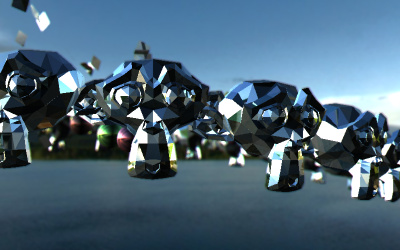
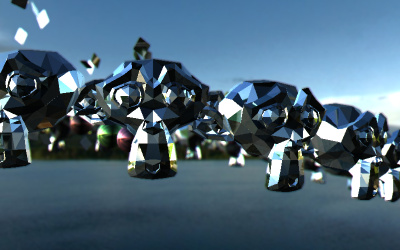
Replaced TwoPassDoubleSide with material.forceSinglePass (#25239)
* Replaced TwoPassDoubleSide with object.renderDoubleSideSinglePass.

* Renamed renderDoubleSideSinglePass to renderForceSinglePass.

* Enabled renderForceSinglePass in webgl_buffergeometry_instancing example.

* Update src/renderers/webgl/WebGLShadowMap.js

* Restored TwoPassDoubleSide constant and made it "backwards compatible".

* Moved object.renderForceSinglePass to material.forceSinglePass.

* Editor: Updated forceSinglePass UI.

* Docs: Removed TwoPassDoubleSide reference.

* Examples: Updated webgl_postprocessing_dof2.

* Updated ObjectLoader and MaterialLoader.

diff --git a/src/renderers/WebGLRenderer.js b/src/renderers/WebGLRenderer.js
@@ -1,8 +1,8 @@
 import {
 	REVISION,
 	BackSide,
-	TwoPassDoubleSide,
 	FrontSide,
+	DoubleSide,
 	RGBAFormat,
 	HalfFloatType,
 	FloatType,
@@ -828,7 +828,7 @@ function WebGLRenderer( parameters = {} ) {
 
 		function prepare( material, scene, object ) {
 
-			if ( material.transparent === true && material.side === TwoPassDoubleSide ) {
+			if ( material.transparent === true && material.side === DoubleSide && material.forceSinglePass === false ) {
 
 				material.side = BackSide;
 				material.needsUpdate = true;
@@ -838,7 +838,7 @@ function WebGLRenderer( parameters = {} ) {
 				material.needsUpdate = true;
 				getProgram( material, scene, object );
 
-				material.side = TwoPassDoubleSide;
+				material.side = DoubleSide;
 
 			} else {
 
@@ -1312,7 +1312,7 @@ function WebGLRenderer( parameters = {} ) {
 
 		material.onBeforeRender( _this, scene, camera, geometry, object, group );
 
-		if ( material.transparent === true && material.side === TwoPassDoubleSide ) {
+		if ( material.transparent === true && material.side === DoubleSide && material.forceSinglePass === false ) {
 
 			material.side = BackSide;
 			material.needsUpdate = true;
@@ -1322,7 +1322,7 @@ function WebGLRenderer( parameters = {} ) {
 			material.needsUpdate = true;
 			_this.renderBufferDirect( camera, scene, geometry, material, object, group );
 
-			material.side = TwoPassDoubleSide;
+			material.side = DoubleSide;
 
 		} else {
 

diff --git a/editor/js/Strings.js b/editor/js/Strings.js
@@ -298,6 +298,7 @@ function Strings( config ) {
 			'sidebar/material/blending': 'Blending',
 			'sidebar/material/opacity': 'Opacity',
 			'sidebar/material/transparent': 'Transparent',
+			'sidebar/material/forcesinglepass': 'Force Single Pass',
 			'sidebar/material/alphatest': 'Alpha Test',
 			'sidebar/material/depthtest': 'Depth Test',
 			'sidebar/material/depthwrite': 'Depth Write',
@@ -649,6 +650,7 @@ function Strings( config ) {
 			'sidebar/material/blending': 'Mélange',
 			'sidebar/material/opacity': 'Opacité',
 			'sidebar/material/transparent': 'Transparence',
+			'sidebar/material/forcesinglepass': 'Force Single Pass',
 			'sidebar/material/alphatest': 'Test de transparence',
 			'sidebar/material/depthtest': 'Depth Test',
 			'sidebar/material/depthwrite': 'Depth Write',
@@ -1000,6 +1002,7 @@ function Strings( config ) {
 			'sidebar/material/blending': '混合',
 			'sidebar/material/opacity': '透明度',
 			'sidebar/material/transparent': '透明性',
+			'sidebar/material/forcesinglepass': 'Force Single Pass',
 			'sidebar/material/alphatest': 'α测试',
 			'sidebar/material/depthtest': '深度测试',
 			'sidebar/material/depthwrite': '深度缓冲',

diff --git a/src/materials/Material.js b/src/materials/Material.js
@@ -64,6 +64,7 @@ class Material extends EventDispatcher {
 
 		this.alphaToCoverage = false;
 		this.premultipliedAlpha = false;
+		this.forceSinglePass = false;
 
 		this.visible = true;
 
@@ -345,6 +346,7 @@ class Material extends EventDispatcher {
 		if ( this.alphaTest > 0 ) data.alphaTest = this.alphaTest;
 		if ( this.alphaToCoverage === true ) data.alphaToCoverage = this.alphaToCoverage;
 		if ( this.premultipliedAlpha === true ) data.premultipliedAlpha = this.premultipliedAlpha;
+		if ( this.forceSinglePass === true ) data.forceSinglePass = this.forceSinglePass;
 
 		if ( this.wireframe === true ) data.wireframe = this.wireframe;
 		if ( this.wireframeLinewidth > 1 ) data.wireframeLinewidth = this.wireframeLinewidth;
@@ -465,6 +467,7 @@ class Material extends EventDispatcher {
 		this.alphaTest = source.alphaTest;
 		this.alphaToCoverage = source.alphaToCoverage;
 		this.premultipliedAlpha = source.premultipliedAlpha;
+		this.forceSinglePass = source.forceSinglePass;
 
 		this.visible = source.visible;
 

diff --git a/src/renderers/webgl/WebGLShadowMap.js b/src/renderers/webgl/WebGLShadowMap.js
@@ -1,4 +1,4 @@
-import { FrontSide, BackSide, DoubleSide, TwoPassDoubleSide, NearestFilter, PCFShadowMap, VSMShadowMap, RGBADepthPacking, NoBlending } from '../../constants.js';
+import { FrontSide, BackSide, DoubleSide, NearestFilter, PCFShadowMap, VSMShadowMap, RGBADepthPacking, NoBlending } from '../../constants.js';
 import { WebGLRenderTarget } from '../WebGLRenderTarget.js';
 import { MeshDepthMaterial } from '../../materials/MeshDepthMaterial.js';
 import { MeshDistanceMaterial } from '../../materials/MeshDistanceMaterial.js';
@@ -28,7 +28,7 @@ function WebGLShadowMap( _renderer, _objects, _capabilities ) {
 
 		_maxTextureSize = _capabilities.maxTextureSize;
 
-	const shadowSide = { [ FrontSide ]: BackSide, [ BackSide ]: FrontSide, [ DoubleSide ]: DoubleSide, [ TwoPassDoubleSide ]: DoubleSide };
+	const shadowSide = { [ FrontSide ]: BackSide, [ BackSide ]: FrontSide, [ DoubleSide ]: DoubleSide };
 
 	const shadowMaterialVertical = new ShaderMaterial( {
 		defines: {

diff --git a/editor/js/Sidebar.Material.js b/editor/js/Sidebar.Material.js
@@ -306,8 +306,7 @@ function SidebarMaterial( editor ) {
 	const materialSideOptions = {
 		0: 'Front',
 		1: 'Back',
-		2: 'Double',
-		3: 'TwoPassDouble'
+		2: 'Double'
 	};
 
 	const materialSide = new SidebarMaterialConstantProperty( editor, 'side', strings.getKey( 'sidebar/material/side' ), materialSideOptions );
@@ -351,6 +350,11 @@ function SidebarMaterial( editor ) {
 
 	const materialTransparent = new SidebarMaterialBooleanProperty( editor, 'transparent', strings.getKey( 'sidebar/material/transparent' ) );
 	container.add( materialTransparent );
+
+	// forceSinglePass
+
+	const materialForceSinglePass = new SidebarMaterialBooleanProperty( editor, 'forceSinglePass', strings.getKey( 'sidebar/material/forcesinglepass' ) );
+	container.add( materialForceSinglePass );
 
 	// alpha test
 

diff --git a/docs/api/zh/constants/Materials.html b/docs/api/zh/constants/Materials.html
@@ -20,14 +20,10 @@
 		THREE.FrontSide
 		THREE.BackSide
 		THREE.DoubleSide
-		THREE.TwoPassDoubleSide
 		</code>
 		<p>
 			定义了哪一边的面将会被渲染 —— 正面，或是反面，还是两个面都渲染。
 			默认值是[page:Constant FrontSide]（只渲染正面）。
-		</p>
-		<p>
-		[page:Materials TwoPassDoubleSide] will renderer double-sided transparent materials in two passes in back-front order to mitigate transparency artifacts.
 		</p>
 
 		<h2>混合模式</h2>

diff --git a/docs/api/it/constants/Materials.html b/docs/api/it/constants/Materials.html
@@ -22,14 +22,10 @@
 		THREE.FrontSide
 		THREE.BackSide
 		THREE.DoubleSide
-		THREE.TwoPassDoubleSide
 		</code>
 		<p>
       Definisce quale lato delle facce sarà visualizzato - frontale, retro o entrambi.
       Il valore predefinito è [page:Constant FrontSide].
-		</p>
-		<p>
-		[page:Materials TwoPassDoubleSide] will renderer double-sided transparent materials in two passes in back-front order to mitigate transparency artifacts.
 		</p>
 
 		<h2>Modalità Blending</h2>

diff --git a/docs/api/zh/materials/Material.html b/docs/api/zh/materials/Material.html
@@ -226,7 +226,7 @@
 
 <h3>[property:Integer side]</h3>
 <p> 定义将要渲染哪一面 - 正面，背面或两者。
-	默认为[page:Materials THREE.FrontSide]。其他选项有[page:Materials THREE.BackSide], [page:Materials THREE.DoubleSide] 和 [page:Materials THREE.TwoPassDoubleSide]。
+	默认为[page:Materials THREE.FrontSide]。其他选项有[page:Materials THREE.BackSide] 和 [page:Materials THREE.DoubleSide]。
 </p>
 
 <h3>[property:Boolean toneMapped]</h3>

diff --git a/docs/api/pt-br/constants/Materials.html b/docs/api/pt-br/constants/Materials.html
@@ -19,14 +19,10 @@
 		THREE.FrontSide
 		THREE.BackSide
 		THREE.DoubleSide
-		THREE.TwoPassDoubleSide
 		</code>
 		<p>
 		Define qual lado das faces será renderizado - frente, verso ou ambos.
 		O padrão é [page:Constant FrontSide].
-		</p>
-		<p>
-		[page:Materials TwoPassDoubleSide] will renderer double-sided transparent materials in two passes in back-front order to mitigate transparency artifacts.
 		</p>
 
 		<h2>Modo de Mesclagem (Blending Mode)</h2>

diff --git a/docs/api/fr/constants/Materials.html b/docs/api/fr/constants/Materials.html
@@ -20,14 +20,10 @@
 		THREE.FrontSide
 		THREE.BackSide
 		THREE.DoubleSide
-		THREE.TwoPassDoubleSide
 		</code>
 		<p>
 		Définit quel côté des faces sera rendu - avant, arrière ou les deux.
 		La valeur par défaut est [page:Constant FrontSide].
-		</p>
-		<p>
-		[page:Materials TwoPassDoubleSide] will renderer double-sided transparent materials in two passes in back-front order to mitigate transparency artifacts.
 		</p>
 
 		<h2>Mode de fusion</h2>

diff --git a/docs/api/it/materials/Material.html b/docs/api/it/materials/Material.html
@@ -276,7 +276,7 @@
 		<p>
 			Definisce quale lato delle facce sarà visualizzato - frontale, posteriore o entrambi.
 			Il valore predefinito è [page:Materials THREE.FrontSide].
-			Altre opzioni sono [page:Materials THREE.BackSide], [page:Materials THREE.DoubleSide] e [page:Materials THREE.TwoPassDoubleSide].
+			Altre opzioni sono [page:Materials THREE.BackSide] e [page:Materials THREE.DoubleSide].
 		</p>
 
 		<h3>[property:Boolean toneMapped]</h3>

diff --git a/docs/api/en/constants/Materials.html b/docs/api/en/constants/Materials.html
@@ -20,14 +20,10 @@
 		THREE.FrontSide
 		THREE.BackSide
 		THREE.DoubleSide
-		THREE.TwoPassDoubleSide
 		</code>
 		<p>
 		Defines which side of faces will be rendered - front, back or both.
 		Default is [page:Constant FrontSide].
-		</p>
-		<p>
-		[page:Materials TwoPassDoubleSide] will renderer double-sided transparent materials in two passes in back-front order to mitigate transparency artifacts.
 		</p>
 
 		<h2>Blending Mode</h2>
